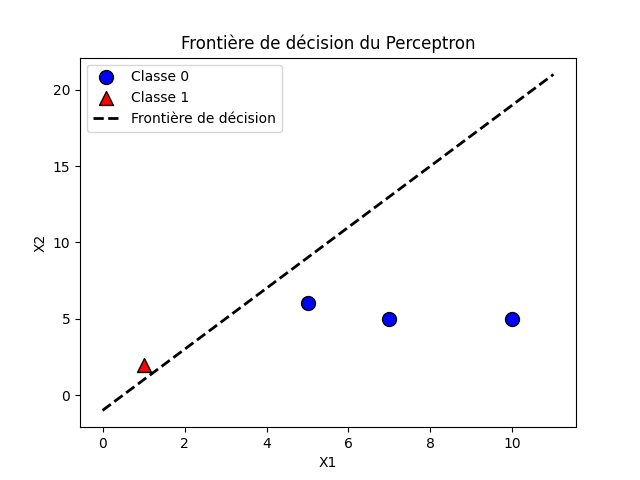
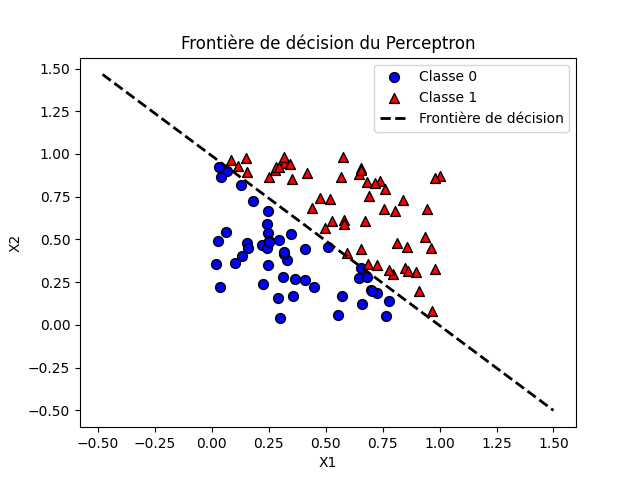
perceptron project complete

diff --git a/rendu_5/app.py b/rendu_5/app.py
@@ -1,26 +1,29 @@
+from matplotlib.lines import lineStyles
 import numpy as np
 import pandas as pd
-import seaborn as sns
 import matplotlib.pyplot as plt
 import utile.Perceptron as per
 
-X = np.array([[10, 5], [7, 5], [5, 6], [1, 2]])
-y = np.array([0, 0, 0, 1])
 
+X = np.random.rand(100, 2)
+y = np.where(X[:, 0] + X[:, 1] >= 1, 1, 0)
+
+# Perceptron seul
 p = per.Perceptron()
-p.fit(X, y)
+accuracies = p.fit(X, y)
 
-w0, w1, w2 = p.W
+w1, w2 = p.W 
+b = p.B
 
 # Définition des limites pour x1
-x1_vals = np.array([X[:, 0].min() - 1, X[:, 0].max() + 1])
+x1_vals = np.array([X[:, 0].min() - 0.5, X[:, 0].max() + 0.5])
 
 # Calcul de x2 en fonction de x1
-x2_vals = - (w0 + w1 * x1_vals) / w2
+x2_vals = -(b + w1 * x1_vals) / w2
 
 
-plt.scatter(X[y == 0, 0], X[y == 0, 1], color='blue', edgecolor='k', marker='o', s=100, label='Classe 0')
-plt.scatter(X[y == 1, 0], X[y == 1, 1], color='red', edgecolor='k', marker='^', s=100, label='Classe 1')
+plt.scatter(X[y == 0, 0], X[y == 0, 1], color='blue', edgecolor='k', marker='o', s=50, label='Label 0')
+plt.scatter(X[y == 1, 0], X[y == 1, 1], color='red', edgecolor='k', marker='^', s=50, label='Label 1')
 
 plt.plot(x1_vals, x2_vals, 'k--', linewidth=2, label="Frontière de décision")
 plt.xlabel("X1")
@@ -28,4 +31,63 @@ plt.ylabel("X2")
 plt.title("Frontière de décision du Perceptron")
 plt.legend()
 plt.savefig("rendu_5/img/perceptron.png", format="png")
+plt.show()
+
+# Affichage Accuracy evolution
+plt.plot(range(len(accuracies)), accuracies, linestyle='-', linewidth=1, label="Accuracy")
+plt.xlabel("epochs")
+plt.ylabel("Accuracy")
+plt.title("Evolution de l'accuracy -> 1000 epochs")
+plt.legend()
+plt.savefig("rendu_5/img/Accuracy.png", format="png")
+plt.show()
+
+# 2 Perceptron en series 
+X_new = p.predict_proba(X).reshape(-1, 1)
+p2 = per.Perceptron()
+p2.fit(X_new, y)
+
+plt.scatter(X_new[y == 0], y[y == 0], color='blue', edgecolor='k', marker='o', s=50, label='Label 0')
+plt.scatter(X_new[y == 1], y[y == 1], color='red', edgecolor='k', marker='^', s=50, label='Label 1')
+
+w0 = p2.W
+b = p2.B
+
+# Définition des limites pour x1
+x_val = -b / w0
+
+plt.axvline(x=x_val, color='red', linestyle='--', label="Frontière de décision")
+
+plt.xlabel("X1")
+plt.ylabel("X2")
+plt.title("Frontière de décision du Perceptron (serie de 2)")
+plt.legend()
+plt.savefig("rendu_5/img/perceptron_serie.png", format="png")
+plt.show()
+
+
+# 2 Perceptron en paraallele
+X_new = np.c_[X_new, X_new]
+p3 = per.Perceptron()
+p3.fit(X_new, y)
+
+w1, w2 = p3.W 
+b = p3.B
+
+# Définition des limites pour x1
+x1_vals = np.array([X[:, 0].min() - 0.5, X[:, 0].max() + 0.5])
+
+# Calcul de x2 en fonction de x1
+x2_vals = -(b + w1 * x1_vals) / w2
+
+
+plt.scatter(X[y == 0, 0], X[y == 0, 1], color='blue', edgecolor='k', marker='o', s=50, label='Label 0')
+plt.scatter(X[y == 1, 0], X[y == 1, 1], color='red', edgecolor='k', marker='^', s=50, label='Label 1')
+
+plt.plot(x1_vals, x2_vals, 'k--', linewidth=2, label="Frontière de décision")
+plt.xlabel("X1")
+plt.ylabel("X2")
+plt.title("Frontière de décision de Perceptron 2 en parrallele")
+plt.legend()
+plt.savefig("rendu_5/img/perceptron_parrallele.png", format="png")
 plt.show()

diff --git a/rendu_5/utile/Perceptron.py b/rendu_5/utile/Perceptron.py
@@ -5,19 +5,33 @@ class Perceptron:
 
     def __init__(self):
         self.W = None
+        self.B = None
 
     def fit(self, X, y, alpha=0.01, epochs=1000):
-        self.W = np.zeros(X.shape[1]+1)
-        X = np.c_[np.ones(X.shape[0]), X] 
-
+        self.W = np.zeros(X.shape[1])
+        self.B = 0
+        accuracies = []
         for _ in range(epochs):
+            correct_predictions = 0
             for xi, yi_true in zip(X, y):
-                yi_pred = self.activation_function(xi @ self.W)
+                yi_pred = self.activation_function(xi @ self.W + self.B)
                 self.W += alpha * (yi_true - yi_pred) * xi
+                self.B += alpha * (yi_true - yi_pred)
+                if yi_pred == yi_true:
+                    correct_predictions += 1
+            accuracy = correct_predictions / len(X)
+            accuracies.append(accuracy)
+        return accuracies
         
-    def predict(self, X):
-        X = np.c_[np.ones(X.shape[0]), X]       
-        return self.activation_function(X @ self.W)
+    def predict(self, X):     
+        return self.activation_function(X @ self.W + self.B)
     
     def activation_function(self, x):
         return np.where(x >= 0, 1, 0)
+    
+    def predict_proba(self, X):
+        return self.sigmoid(X @ self.W + self.B)
+    
+    def sigmoid(self, z):
+        z = np.clip(z, -600, 600)
+        return 1 / (1 + np.exp(-z))
